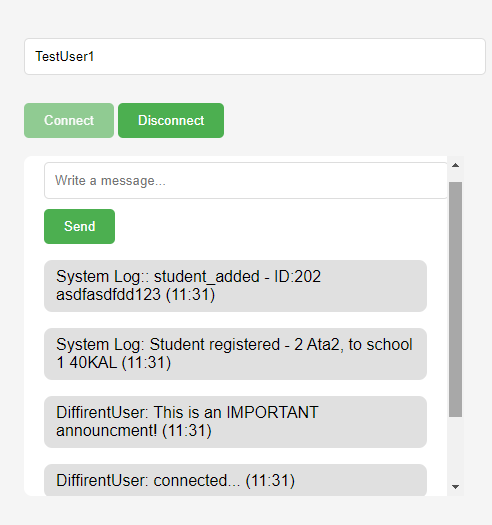
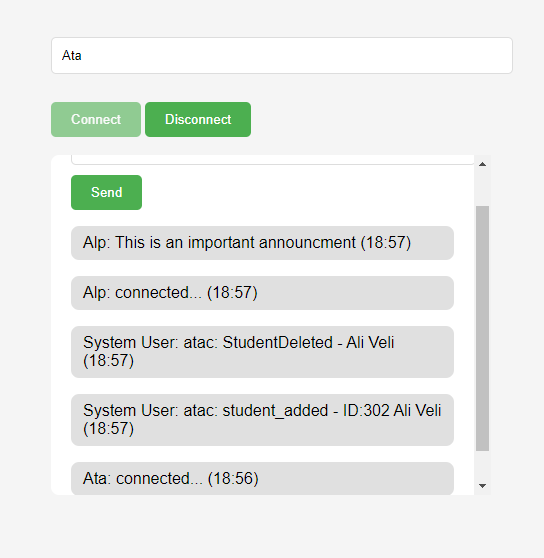
Readme updated

Changed region(s): [[0.0915, 0.3048, 0.9451, 0.9448], [0.0305, 0.1829, 0.4878, 0.2743], [0.061, 0.0914, 0.1829, 0.1219]]

diff --git a/Readme.md b/Readme.md
@@ -1,8 +1,16 @@
-# 🏫School Management Service🏫
-This school management service provides a robust set of tools to manage your student and school records. Student images are saved in local and stored as local path in Db for efficent storage.
-This service has a log system to log the changes made to the student and school records and also users can send announcements using web sockets.  All the project is made with Spring boot using Postgresql DB
+# 🏫School Management Service API with authentication🏫
+This school management service provides a robust set of tools to manage your student and school records with authentication system. Student images are saved in local and stored as local path in Db for efficent storage.
+This service has a log system to log the changes made to the student and school records with the authenticated user info  also users can send announcements using web sockets.  All the project is made with Spring boot using Postgresql DB
 
 ## API Endpoints
+### System Endpoints
+| Method | URL               | Description                         |
+|--------|-------------------|-------------------------------------|
+| `GET`  | `/` | Log & Anouncment system.            |
+| `POST` | `/login`          | Retrieves a specific student by ID. |
+| `POST`  | `/register`       | Retrieves a student's image file.   |
+
+
 
 ### Student Endpoints
 | Method | URL | Description |
@@ -25,10 +33,26 @@ This service has a log system to log the changes made to the student and school 
 | `DELETE` | `/api/v1/school/{id}` | Deletes a school.                      |
 | `POST` | `/api/v1/school` | Creates a new school.                  |
 
+### Authentication 
+The app uses JWT for authentication. The user can login or register using the  (/login & /register) endpoints. Logging and registering returns
+a JWT token which is used to authenticate the user for further requests. The token is valid for 10 hours.
+
+<p align="center">
+
+  <img src="Media/System.png" height= "500"> 
+
+</p>
+To make a request to the API, the token should be included in the header as follows:
+
+```bash
+Authorization
+Bearer <token>
+```
+Users can use the Log&Chat system without authentication.
 
 ### Chat log system
  The app has a chat and log system where users can send   announcements to all the users in the system. 
-  System automatically logs the changes made in the DB The chat log system is implemented using web sockets. Chat system url : http://localhost:8080/
+  System automatically logs the changes made in the DB with the username of the user using the JWT Token .The chat log system is implemented using web sockets. Chat system url : http://localhost:8080/
 
 
 
